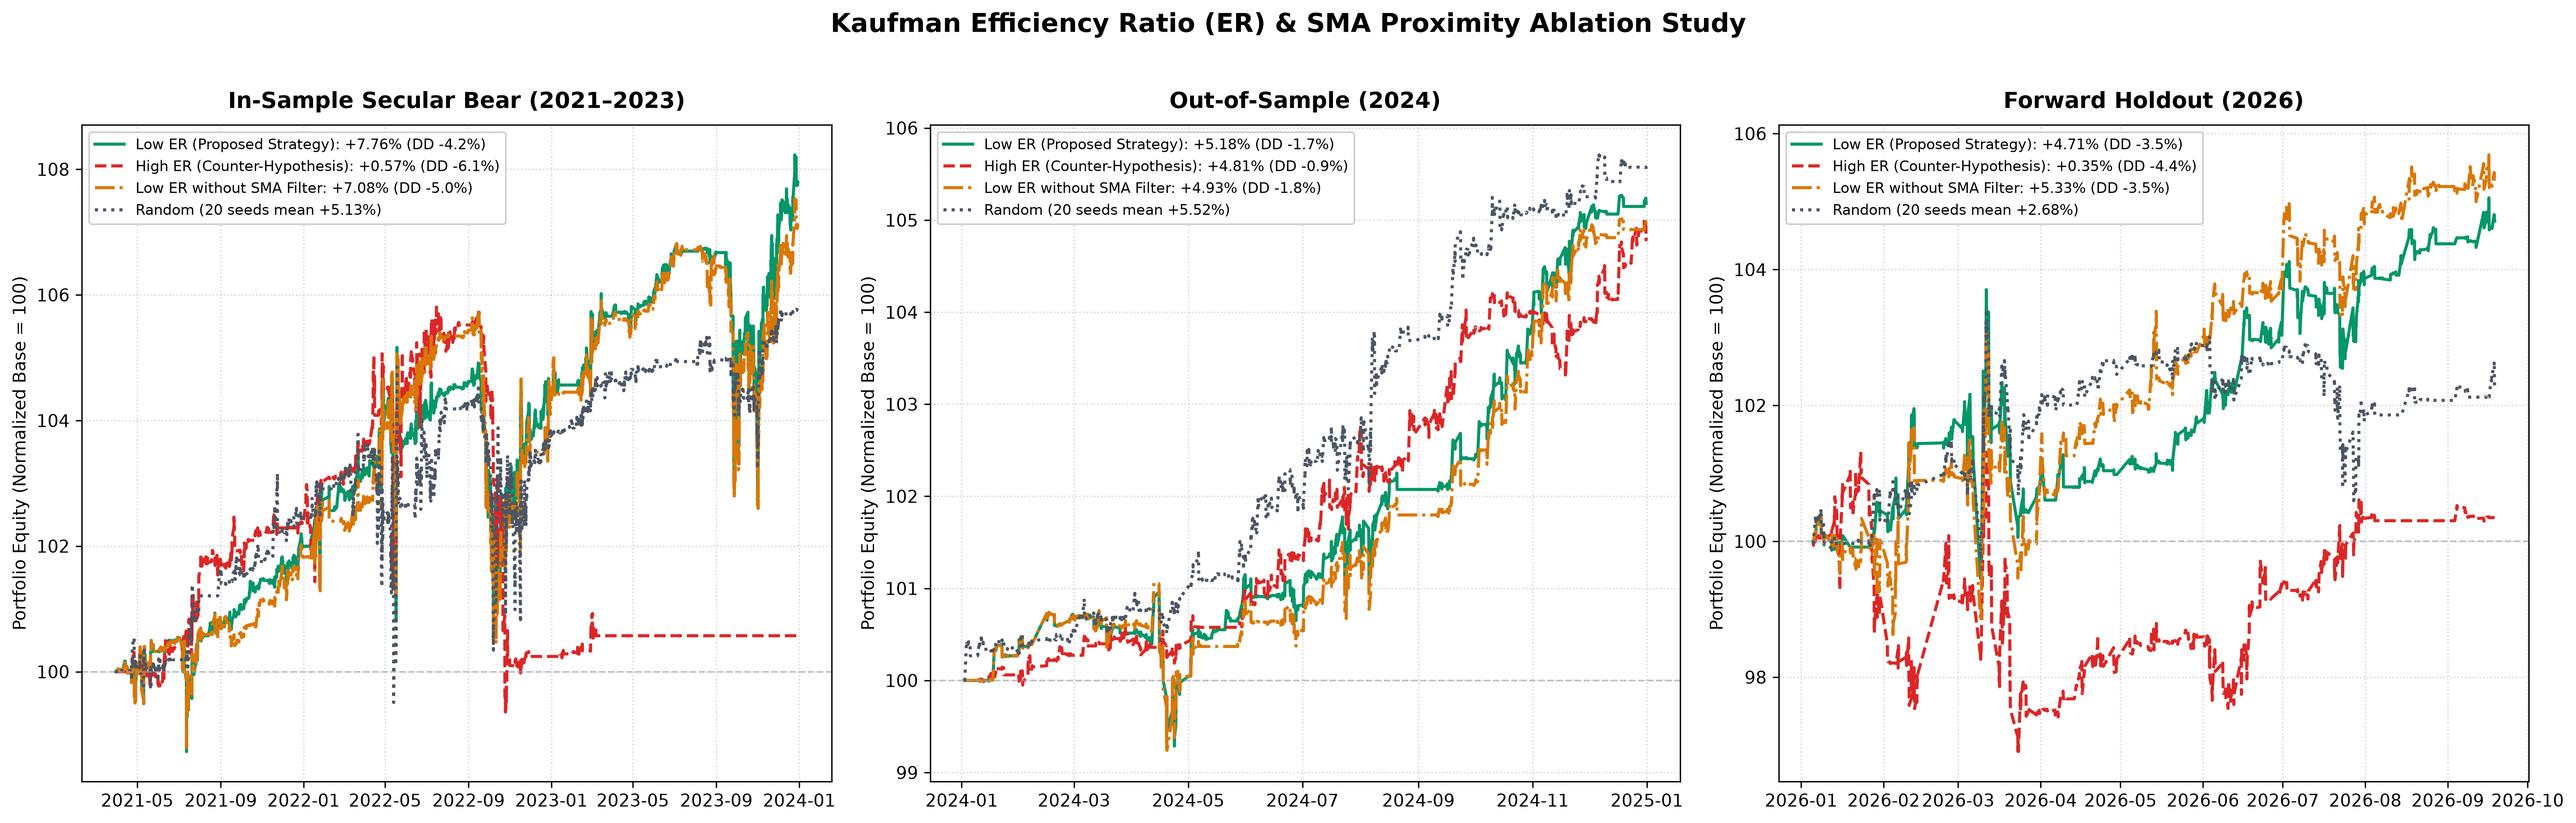
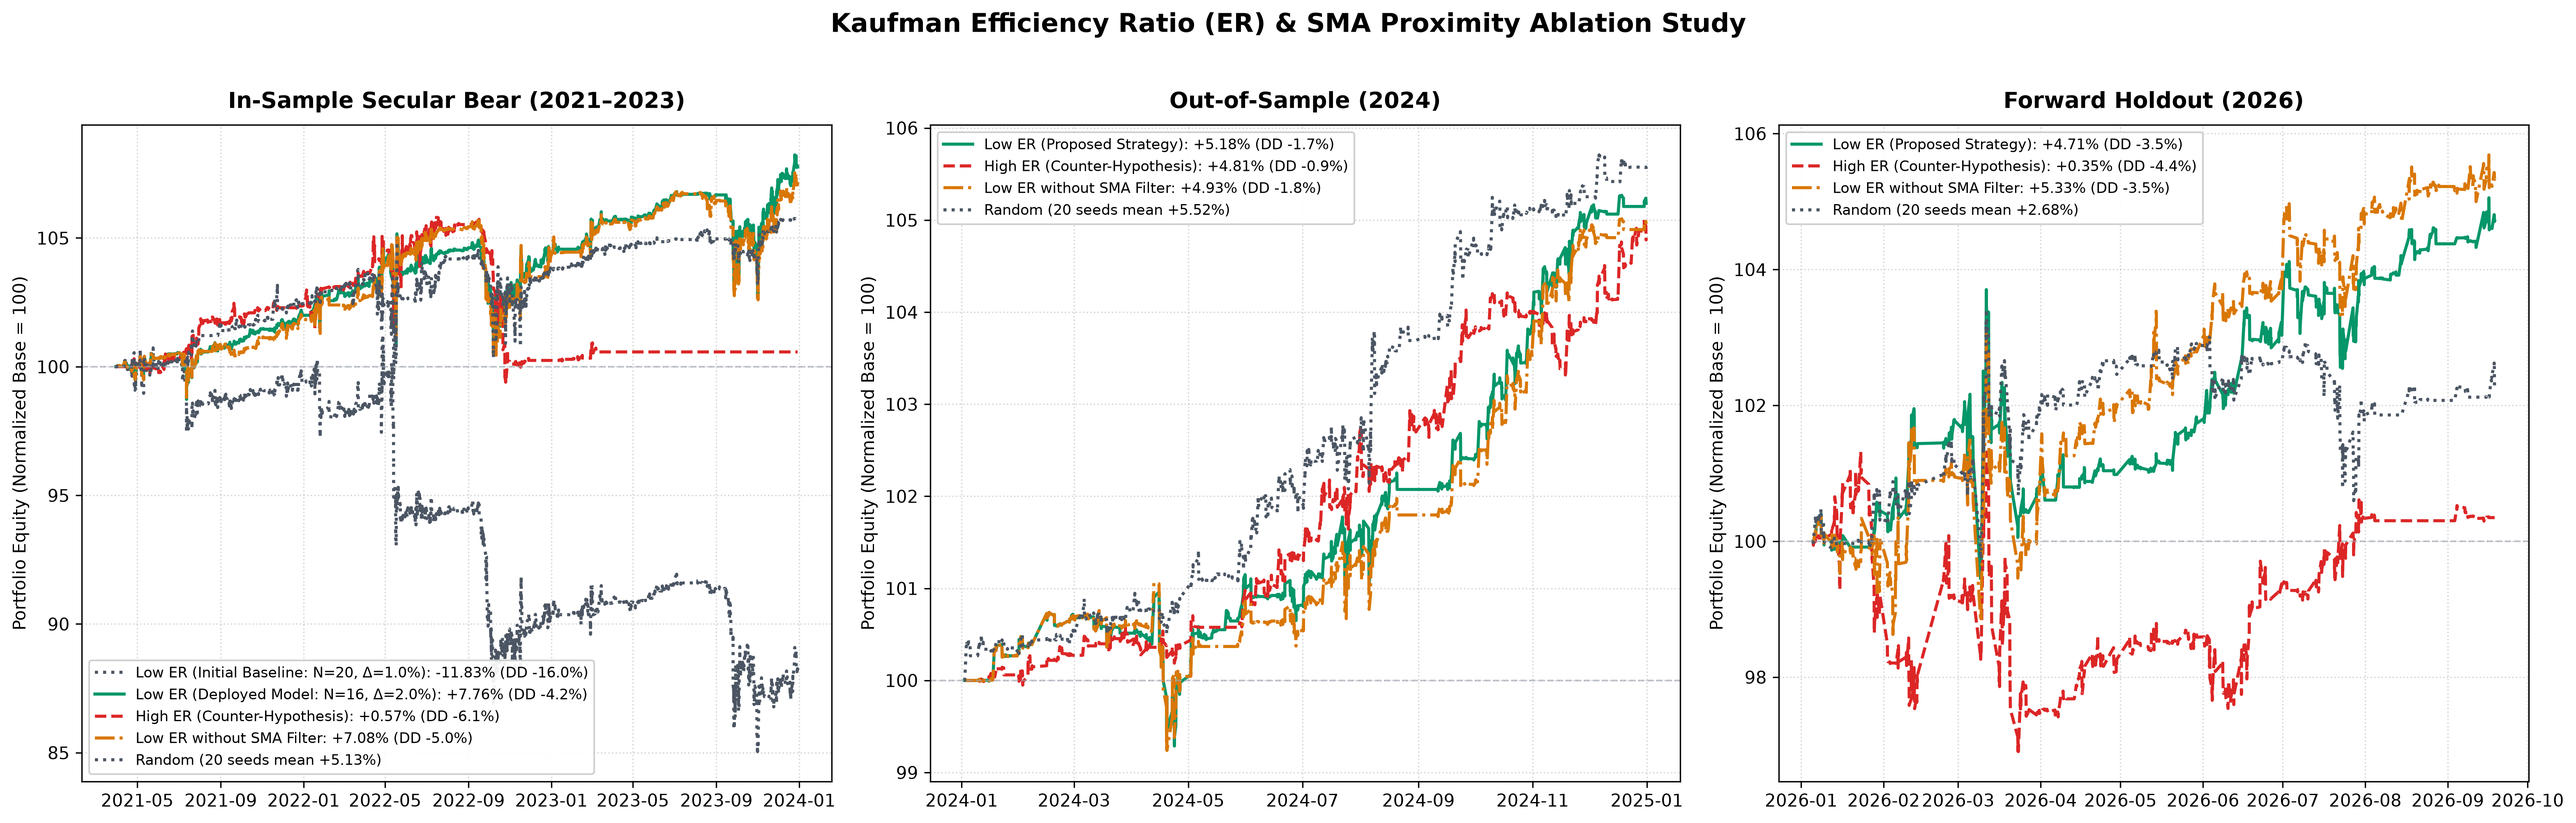
docs: update empirical validation ablation table with in-sample results

Changed region(s): [[0.0311, 0.1547, 0.3111, 0.9281], [0.2799, 0.7425, 0.3111, 0.8663]]

diff --git a/scripts/run_benchmark_ablation.py b/scripts/run_benchmark_ablation.py
@@ -81,11 +81,34 @@ def main():
         print(f"\n---> Evaluating Split: {split.upper()} ...")
         bundle = prepare_data(config, split)
         
-        # 1. Low ER (Proposed Strategy)
-        res_low = run_experiment("Low ER (Proposed Strategy)", bundle, strat_cfg, selection_mode="er_low", use_sma_filter=True)
+        # 0. If in_sample, evaluate initial baseline hypothesis (N=20, Δ=1.0%)
+        if split == "in_sample":
+            with open(cfg_path, "r") as f:
+                base_cfg_raw = yaml.safe_load(f).get("strategy", {})
+            res_base = run_experiment("Low ER (Initial Baseline: N=20, Δ=1.0%)", bundle, base_cfg_raw, selection_mode="er_low", use_sma_filter=True)
+            all_results.append({
+                "split": split,
+                "cohort": "Low ER (Initial Baseline: N=20, Δ=1.0%)",
+                "hpr": res_base["hpr"],
+                "net_profit": res_base["net_profit"],
+                "sharpe": res_base["daily_sharpe"],
+                "max_dd": res_base["max_drawdown"],
+                "win_rate": res_base["win_rate"],
+                "tp_trades": res_base.get("tp_trades", 0),
+                "stop_trades": res_base.get("stop_trades", 0),
+                "harvest_pnl": res_base.get("spot_harvest_pnl", 0.0),
+                "stop_pnl": res_base.get("floor_stop_pnl", 0.0),
+                "rotation_pnl": res_base.get("rotation_pnl", 0.0),
+                "equity_series": res_base["equity_series"]
+            })
+            print(f"  [Low ER (Initial Baseline)]   HPR: {res_base['hpr']:+6.2f}% | Daily Sharpe: {res_base['daily_sharpe']:5.3f} | MaxDD: {res_base['max_drawdown']:5.2f}% | WinRate: {res_base['win_rate']:5.1f}%")
+
+        # 1. Low ER (Deployed Model)
+        cohort_name = "Low ER (Deployed Model: N=16, Δ=2.0%)" if split == "in_sample" else "Low ER (Proposed Strategy)"
+        res_low = run_experiment(cohort_name, bundle, strat_cfg, selection_mode="er_low", use_sma_filter=True)
         all_results.append({
             "split": split,
-            "cohort": "Low ER (Proposed Strategy)",
+            "cohort": cohort_name,
             "hpr": res_low["hpr"],
             "net_profit": res_low["net_profit"],
             "sharpe": res_low["daily_sharpe"],
@@ -98,7 +121,7 @@ def main():
             "rotation_pnl": res_low.get("rotation_pnl", 0.0),
             "equity_series": res_low["equity_series"]
         })
-        print(f"  [Low ER (Proposed)]           HPR: {res_low['hpr']:+6.2f}% | Daily Sharpe: {res_low['daily_sharpe']:5.3f} | MaxDD: {res_low['max_drawdown']:5.2f}% | WinRate: {res_low['win_rate']:5.1f}%")
+        print(f"  [Low ER (Deployed Model)]     HPR: {res_low['hpr']:+6.2f}% | Daily Sharpe: {res_low['daily_sharpe']:5.3f} | MaxDD: {res_low['max_drawdown']:5.2f}% | WinRate: {res_low['win_rate']:5.1f}%")
         
         # 2. High ER (Counter-Hypothesis)
         res_high = run_experiment("High ER (Counter-Hypothesis)", bundle, strat_cfg, selection_mode="er_high", use_sma_filter=True)
@@ -201,11 +224,15 @@ def main():
     # Save comparison chart
     fig, axes = plt.subplots(1, 3, figsize=(21, 6.5), sharey=False)
     colors = {
-        "Low ER (Proposed Strategy)": "#059669",      # Emerald Green
-        "High ER (Counter-Hypothesis)": "#DC2626",    # Crimson Red
-        "Low ER without SMA Filter": "#D97706"       # Amber
+        "Low ER (Initial Baseline: N=20, Δ=1.0%)": "#4B5563",  # Slate Gray
+        "Low ER (Deployed Model: N=16, Δ=2.0%)": "#059669",    # Emerald Green
+        "Low ER (Proposed Strategy)": "#059669",                # Emerald Green
+        "High ER (Counter-Hypothesis)": "#DC2626",              # Crimson Red
+        "Low ER without SMA Filter": "#D97706"                 # Amber
     }
     styles = {
+        "Low ER (Initial Baseline: N=20, Δ=1.0%)": ":",
+        "Low ER (Deployed Model: N=16, Δ=2.0%)": "-",
         "Low ER (Proposed Strategy)": "-",
         "High ER (Counter-Hypothesis)": "--",
         "Low ER without SMA Filter": "-."
@@ -259,7 +286,7 @@ def main():
         s_rows = summary_df[summary_df["split"] == split]
         for row_idx, (_, r) in enumerate(s_rows.iterrows()):
             sp = split_name if row_idx == 0 else ""
-            bold = "**" if "Proposed" in r["cohort"] else ""
+            bold = "**" if ("Proposed" in r["cohort"] or "Deployed" in r["cohort"] or "Baseline" in r["cohort"]) else ""
             c_label = r["cohort"]
             print(f"| {sp} | {bold}{c_label}{bold} | {bold}{r['hpr']:+.2f}%{bold} | {bold}{r['sharpe']:.3f}{bold} | {bold}{r['max_dd']:.2f}%{bold} | {bold}{r['win_rate']:.1f}%{bold} | {bold}{r['stop_trades']}{bold} | {bold}{r['harvest_pnl']:+,.0f} VND{bold} | {bold}{r['rotation_pnl']:+,.0f} VND{bold} |")
         # Print random stats row

diff --git a/README.md b/README.md
@@ -53,11 +53,12 @@ An ablation study across evaluation splits evaluates Low ER against High ER, un-
 
 | Evaluation Split | Selection Cohort | Total Return (HPR) | Daily Sharpe (Rf=6%) | Max Drawdown | Win Rate | Floor Stops | Spot Harvest PnL | Rotation PnL |
 | :--- | :--- | :---: | :---: | :---: | :---: | :---: | :---: | :---: |
-| **In-Sample**<br>*(2021–2023)* | **Low ER (Proposed Strategy)** | **+7.76%** | **-0.729** | **-4.16%** | **76.5%** | **0** | **+214,548,039 VND** | **-136,901,900 VND** |
+| **In-Sample**<br>*(2021–2023)* | **Low ER (Initial Baseline: N=20, Δ=1.0%)** | **-11.83%** | **-1.482** | **-16.00%** | **78.8%** | **19 (153 lots)** | **+205,265,544 VND** | **-123,074,592 VND** |
+|  | **Low ER (Deployed Model: N=16, Δ=2.0%)** | **+7.76%** | **-0.729** | **-4.16%** | **76.5%** | **0** | **+214,548,039 VND** | **-136,901,900 VND** |
 |  | High ER (Counter-Hypothesis) | +0.57% | -1.750 | -6.09% | 76.8% | 16 | +98,845,917 VND | -42,619,842 VND |
 |  | Low ER without SMA Filter | +7.08% | -0.798 | -5.01% | 76.5% | 0 | +214,718,051 VND | -143,914,036 VND |
 |  | Random Selection (20 Seeds: +5.13%, [-2.39%, +9.43%]) | +5.13% | -0.879 | -6.73% | 75.8% | 9 | +195,776,056 VND | -120,033,313 VND |
-| | *Random Baseline Percentile Rank* | *Low ER: 75.0th percentile* | *Random 20-seed range: [-2.39%, +9.43%]* | — | — | — | — | — |
+| | *Random Baseline Percentile Rank* | *Low ER (Deployed): 75.0th percentile* | *Random 20-seed range: [-2.39%, +9.43%]* | — | — | — | — | — |
 | **Out-of-Sample**<br>*(2024)* | **Low ER (Proposed Strategy)** | **+5.18%** | **-0.355** | **-1.66%** | **79.7%** | **0** | **+65,718,464 VND** | **-13,817,998 VND** |
 |  | High ER (Counter-Hypothesis) | +4.81% | -0.645 | -0.86% | 79.6% | 0 | +57,022,948 VND | -9,226,653 VND |
 |  | Low ER without SMA Filter | +4.93% | -0.410 | -1.82% | 76.4% | 0 | +64,390,084 VND | -14,996,392 VND |
@@ -72,9 +73,10 @@ An ablation study across evaluation splits evaluates Low ER against High ER, un-
 ![Benchmark Ablation Comparison](images/benchmark_ablation_comparison.png)
 
 **Key Findings**:
-1. **Low ER Outperforms High ER**: Low ER beats High ER in all three splits (+7.76% vs +0.57% in IS; +5.18% vs +4.81% in OOS; +4.71% vs +0.35% in Holdout).
-2. **Low ER vs. Random Picks**: Low ER ranks at the **75th percentile** in In-Sample and Holdout, and at the **45th percentile** during the broad 2024 recovery.
-3. **Role of the SMA Gate**: Both variants experienced 0 emergency stops across all splits. The gate moderated bear drawdowns (-4.16% vs -5.01%) while accepting a modest drag during choppy range-bound drift (+4.71% vs +5.33%).
+1. **Optimization Turnaround & Channel Depth**: In the In-Sample secular bear market, the initial baseline ($N = 20, \Delta = 1.0\%$) suffered from a shallow 20% channel depth, triggering 19 floor stop liquidations (-11.83% return, -16.00% MDD). Optimizing to $N = 16, \Delta = 2.0\%$ expanded channel depth to 32%, completely eliminating floor stop liquidations (0 stops), cutting drawdown to -4.16%, and boosting return to **+7.76%**.
+2. **Low ER Outperforms High ER**: Under identical deployed parameters ($N = 16, \Delta = 2.0\%$), Low ER decisively beats High ER across all three splits (+7.76% vs +0.57% in IS; +5.18% vs +4.81% in OOS; +4.71% vs +0.35% in Holdout). Trending high-ER stocks suffered 16 floor stop episodes even under 2.0% spacing.
+3. **Low ER vs. Random Picks**: Low ER ranks at the **75th percentile** in In-Sample and Holdout, and at the **45th percentile** during the broad 2024 recovery.
+4. **Role of the SMA Gate**: Both variants experienced 0 emergency stops across all splits. The gate moderated bear drawdowns (-4.16% vs -5.01%) while accepting a modest drag during choppy range-bound drift (+4.71% vs +5.33%).
 
 ---
 
@@ -176,11 +178,12 @@ The table below presents the complete quantitative track record across all evalu
 
 | Evaluation Period | Calendar Window | Total Trades | Take-Profit (Win) | Whitelist Rotations | Floor Stops | Win Rate | Net HPR (%) | MDD (%) | Daily Sharpe | Avg Invested Capital | Avg Idle Cash | Beat 6% Deposit Hurdle? |
 | :--- | :--- | :---: | :---: | :---: | :---: | :---: | :---: | :---: | :---: | :---: | :---: | :---: |
-| **In-Sample** | 2021-04 to 2023-12 *(33 mos)* | **937** | 717 | 220 | 0 | **76.52%** | **+7.76%** | -4.16% | -0.729 | 7.4% | 92.6% | **No** (+7.76% vs +17.38%) |
+| **In-Sample (Baseline)** | 2021-04 to 2023-12 *(33 mos)* | **2,239** | 1,764 | 322 | 19 | **78.79%** | **-11.83%** | -16.00% | -1.482 | 12.4% | 87.6% | **No** (-11.83% vs +17.38%) |
+| **In-Sample (Optimized)** | 2021-04 to 2023-12 *(33 mos)* | **937** | 717 | 220 | 0 | **76.52%** | **+7.76%** | -4.16% | -0.729 | 7.4% | 92.6% | **No** (+7.76% vs +17.38%) |
 | **Out-of-Sample** | 2024-01 to 2024-12 *(12 mos)* | **217** | 173 | 44 | 0 | **79.72%** | **+5.18%** | -1.66% | -0.355 | 5.0% | 95.0% | **No** (+5.18% vs +5.98%) |
 | **2025 Bull Test** | 2025-01 to 2025-12 *(12 mos)* | **323** | 267 | 56 | 0 | **82.66%** | **+7.04%** | -5.10% | +0.186 | 6.4% | 93.6% | **Yes** (+7.04% vs +5.96%) |
 | **Forward Holdout**| 2026-01 to 2026-09 *(8.5 mos)* | **302** | 235 | 67 | 0 | **77.81%** | **+4.71%** | -3.52% | +0.152 | 9.4% | 90.6% | **Yes** (+4.71% vs +4.17%) |
-| **Full Lifecycle** | **2021 to 2026 (~5.5 years)** | **1,779** | **1,392** | **387** | **0** | **78.25%** | **+27.06%** | **-5.10%** | **-0.291** | **7.0%** | **93.0%** | **Drawdown Protection Alpha** |
+| **Full Lifecycle (Deployed)** | **2021 to 2026 (~5.5 years)** | **1,779** | **1,392** | **387** | **0** | **78.25%** | **+27.06%** | **-5.10%** | **-0.291** | **7.0%** | **93.0%** | **Drawdown Protection Alpha** |
 
 *(Note: Step 4 evaluates the initial unoptimized baseline hypothesis N = 20, Δ = 1.0% configured in config/config.yaml, which generated 2,239 trades and -11.83% return; Step 5 optimizes the grid geometry to N = 16, Δ = 2.0%, achieving +7.76% in-sample and deployed across Out-of-Sample, 2025, and Forward Holdout as reported above).*
 
